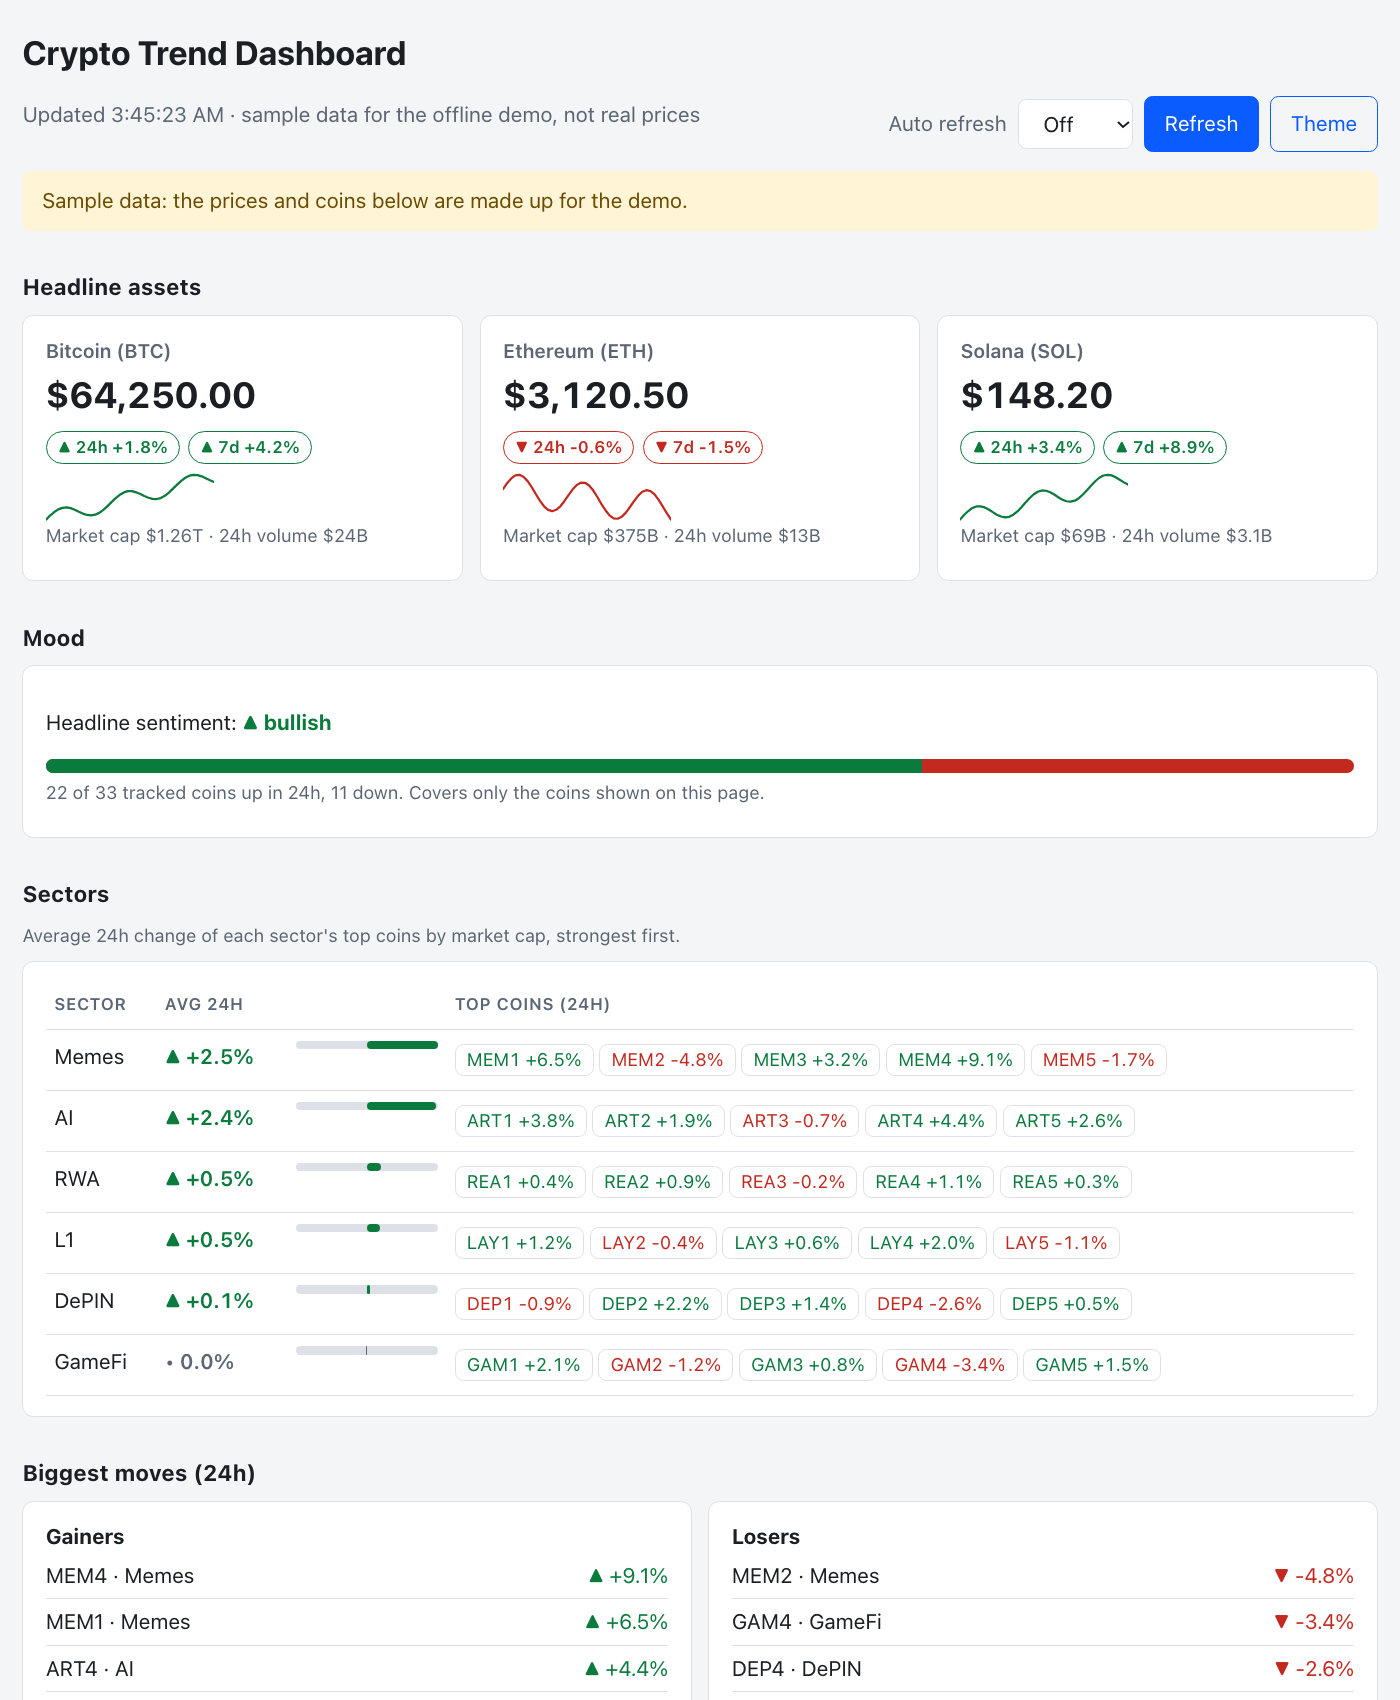
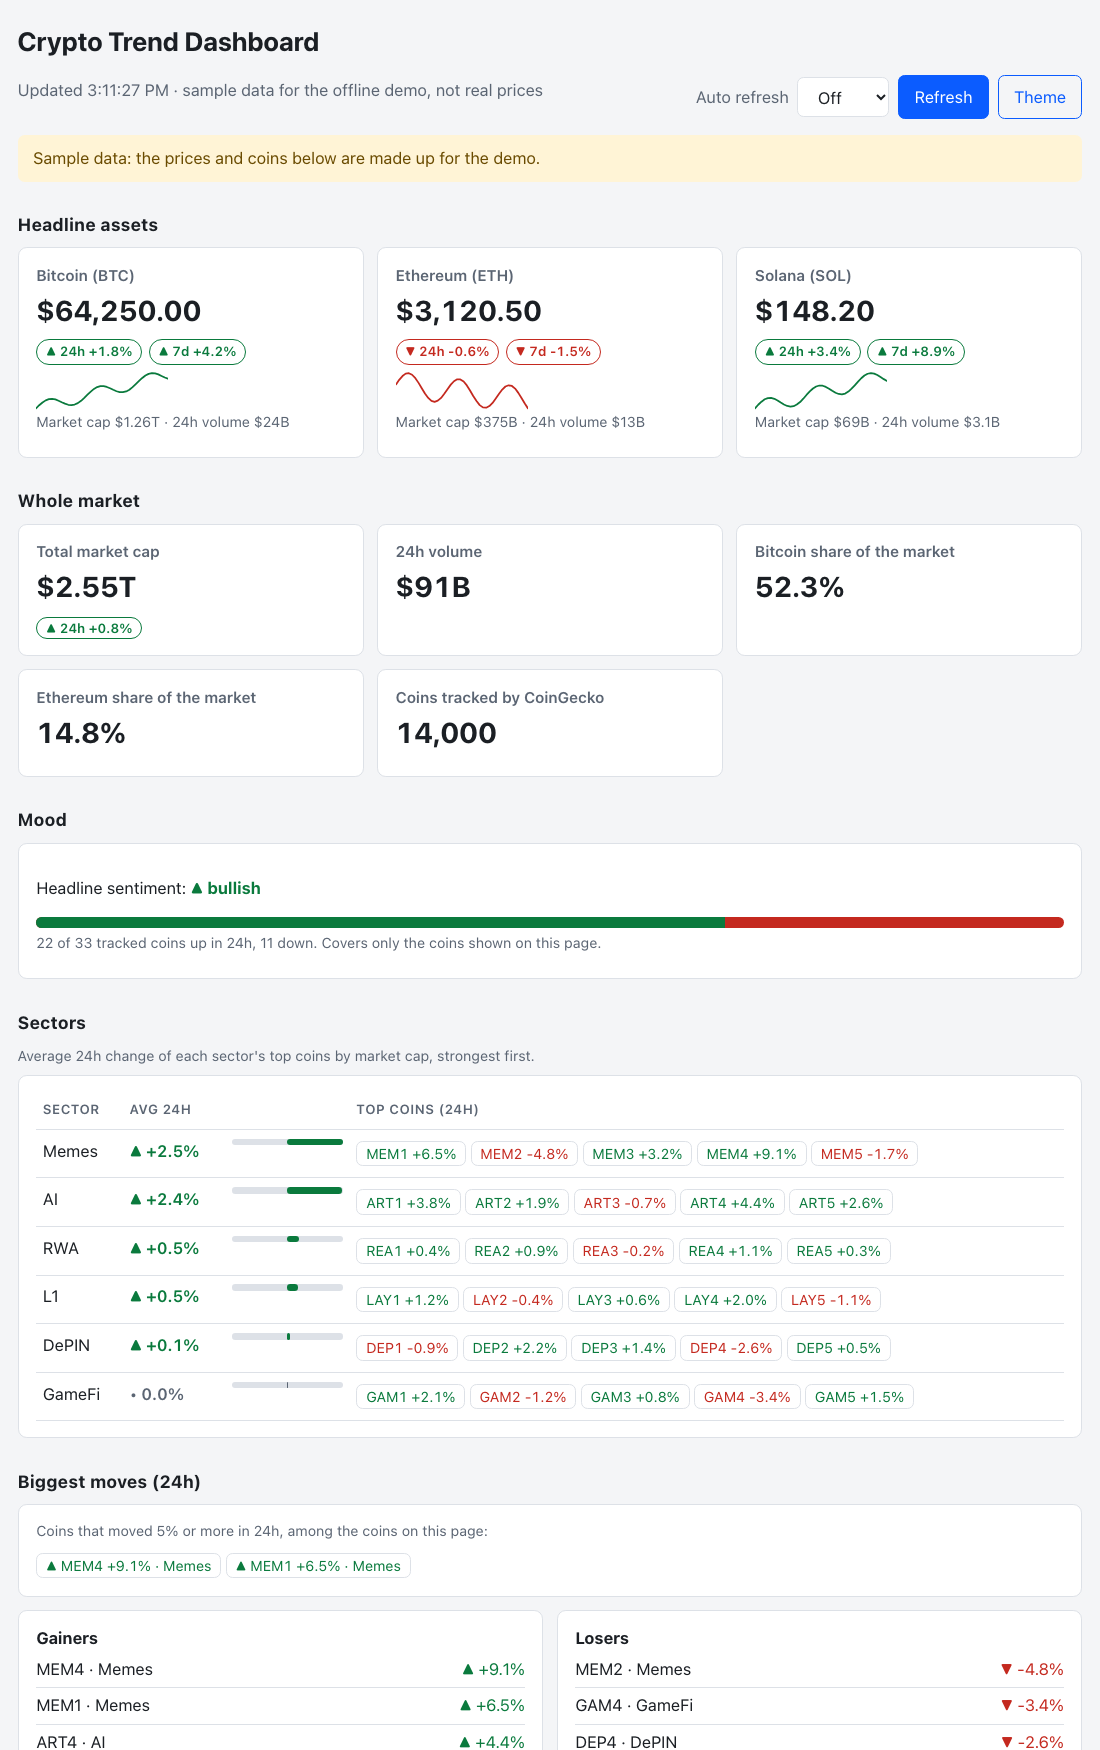
Document the overview, alerts, static demo, refresher and webhook; refresh the screenshot

diff --git a/README.md b/README.md
@@ -9,12 +9,16 @@ The screenshot uses the built-in offline sample data (`MOCK_DATA=1`), so its pri
 ## What it does
 
 - **Headline assets:** USD price, 24h and 7d change, market cap, 24h volume and a 7-day sparkline for Bitcoin, Ethereum and Solana (or the coins you choose with `COINS`).
+- **Whole market:** total market cap and its 24h change, 24h volume, Bitcoin and Ethereum share of the market, and the number of coins CoinGecko tracks.
 - **Sentiment:** **bullish** when more than half of the headline assets rose in 24 hours, otherwise **bearish** (ties are bearish). It describes recent movement; it is not a forecast.
 - **Breadth:** how many of the tracked coins (headline plus sector lists, each counted once) rose in 24 hours. It covers only the coins on the page, not the whole market.
 - **Sectors:** the top five coins by market cap in each CoinGecko category (GameFi, RWA, Memes, DePIN, AI, Layer 1, or your own list), with each sector's average 24h change, ranked strongest first.
-- **Biggest moves:** the top gainers and losers among all tracked coins.
+- **Biggest moves:** the top gainers and losers among all tracked coins, plus a **big-moves** list of every coin that moved `ALERT_THRESHOLD` percent (default 5) or more in either direction. Big moves are also added to the update text.
+- **Trending:** the coins CoinGecko lists as trending right now. This is search attention, not a recommendation.
 - **History:** every real refresh can be saved to a local SQLite file (at most one snapshot every five minutes) and charted as price change over the last 24 hours. Sample data is never saved.
-- **Sharing:** copy the update as plain text or Markdown, or download a CSV.
+- **Sharing:** copy the update as plain text or Markdown, download a CSV, or post the update to a Slack or Discord webhook from the command line.
+- **Background refresh:** with `REFRESH_INTERVAL` set, a background thread keeps the cache warm and saves history snapshots while nobody has the page open.
+- **One request per key:** when several visitors ask at the same moment, one request goes to CoinGecko and the rest reuse its answer.
 - **Resilience:** responses are cached (120 seconds by default), stale data is served when CoinGecko fails, a rate-limit response pauses further requests instead of hammering the API, and a sector that fails stays empty rather than being filled with unrelated coins.
 - **Page:** light and dark themes, optional auto-refresh, no external scripts, fonts or trackers.
 
@@ -25,7 +29,7 @@ An earlier local version mixed CoinGecko and CoinMarketCap data and included a s
 - Python 3.11+ (CI runs 3.11 and 3.12)
 - Internet access for live CoinGecko data
 
-A cold refresh makes one request for the headline coins and one for each sector (seven by default). CoinGecko's free API is rate limited and sometimes answers HTTP 429 for one or two sectors; those rows then show as unavailable and the page says why. The cache and the rate-limit pause reduce repeated calls, and a free CoinGecko demo key (`COINGECKO_API_KEY`) raises the limit.
+A cold refresh makes one request for the headline coins, one for each sector, one for the whole-market figures and one for trending (nine by default; `OVERVIEW=0` drops the last two). CoinGecko's free API is rate limited and sometimes answers HTTP 429 for one or two sectors; those rows then show as unavailable and the page says why. The cache and the rate-limit pause reduce repeated calls, and a free CoinGecko demo key (`COINGECKO_API_KEY`) raises the limit.
 
 ## Run locally
 
@@ -37,6 +41,14 @@ python app.py
 ```
 
 Open [http://localhost:5000](http://localhost:5000). To use another port: `PORT=5057 python app.py`. On macOS, AirPlay Receiver may already use port 5000.
+
+### Static demo (GitHub Pages)
+
+```bash
+python scripts/build_demo.py          # writes docs/index.html, docs/summary.json and docs/static/
+```
+
+This builds a copy of the page that needs no server, from the offline sample data only (every number is made up, and the page says so). The `docs/` folder in this repository already holds a built copy. To host it, open the repository's Settings, choose Pages, and select the `main` branch and the `/docs` folder. The demo has no history chart and no CSV download; those need the app.
 
 ### Offline demo
 
@@ -56,6 +68,14 @@ python cli.py --format csv
 python cli.py --mock               # sample data, no network
 ```
 
+```bash
+export DIGEST_WEBHOOK_URL=https://hooks.slack.com/services/...    # keeps the URL out of your shell history
+python cli.py --webhook "$DIGEST_WEBHOOK_URL"                       # Slack (plain text)
+python cli.py --webhook "$DIGEST_WEBHOOK_URL" --webhook-format discord
+```
+
+The webhook URL is a secret: it is never printed, errors never contain it, redirects are not followed, and only `https` URLs are accepted (plain `http` only for `localhost`). Run it from cron for a daily digest.
+
 The exit status is 0 on success, 1 if no data could be fetched and 2 for a bad configuration.
 
 ## HTTP endpoints
@@ -63,7 +83,7 @@ The exit status is 0 on success, 1 if no data could be fetched and 2 for a bad c
 | Route | Response |
 | --- | --- |
 | `GET /` | The dashboard page. |
-| `GET /api/summary` | JSON with `headline` (price, 1h/24h/7d change, market cap, volume, sparkline), `prices` (the same data keyed by CoinGecko id), `sentiment`, `breadth`, `sectors` (tickers), `sector_details`, `sector_stats`, `movers`, `post`, `post_markdown`, `errors`, `stale`, `mock` and `generated_at`. Partial data is returned when available; the status is 502 only when nothing could be fetched. |
+| `GET /api/summary` | JSON with `headline` (price, 1h/24h/7d change, market cap, volume, sparkline), `overview` (whole-market figures), `trending`, `alerts` (the threshold and the coins above it), `prices` (the same data keyed by CoinGecko id), `sentiment`, `breadth`, `sectors` (tickers), `sector_details`, `sector_stats`, `movers`, `post`, `post_markdown`, `errors`, `stale`, `mock` and `generated_at`. Partial data is returned when available; the status is 502 only when nothing could be fetched. |
 | `GET /api/post?format=text` or `markdown` | The update as `text/plain` or `text/markdown`. Any other format gives 400. |
 | `GET /api/summary.csv` | The headline coins and every sector coin as a CSV download. Names that start with `=`, `+`, `-` or `@` are prefixed so a spreadsheet does not run them as formulas. |
 | `GET /api/history?hours=24` | Saved snapshots from the last 1 to 720 hours, or `{"enabled": false}` when history is off. |
@@ -81,6 +101,10 @@ The exit status is 0 on success, 1 if no data could be fetched and 2 for a bad c
 | `FETCH_WORKERS` | `2` | Sector requests in flight at once (1 to 6). |
 | `COINGECKO_API_KEY` | unset | A CoinGecko demo key, sent in a request header and never in a URL. |
 | `COINGECKO_BASE_URL` | public API | Another API base URL. |
+| `OVERVIEW` | `1` | Set to `0` to skip the whole-market and trending requests (two fewer CoinGecko calls per refresh). |
+| `ALERT_THRESHOLD` | `5` | Percent move that counts as a big move (0.5 to 100). |
+| `REFRESH_INTERVAL` | `0` (off) | Seconds between background refreshes; at least 60 and never shorter than `CACHE_TTL`. Ignored for sample data. With several server workers each one refreshes on its own. |
+| `DIGEST_WEBHOOK_URL` | unset | Slack or Discord webhook used by `cli.py` when `--webhook` is not given. |
 | `HISTORY` | `1` | Set to `0` to switch off the local history. |
 | `HISTORY_DB` | `data/history.sqlite` | Where snapshots are stored. |
 | `HISTORY_MIN_INTERVAL` | `300` | Minimum seconds between snapshots (30 or more). |
@@ -104,17 +128,19 @@ COINS=bitcoin,ethereum,dogecoin CACHE_TTL=300 PORT=5057 python app.py
 python -m pytest -q
 ```
 
-The 54 tests cover row normalisation, sentiment, breadth, sector statistics and movers, the text, Markdown and CSV output (including spreadsheet-formula safety), cache and stale-data behaviour, the rate-limit pause, request headers, configuration validation, the history store (throttling, pruning, damaged rows), every HTTP route, the security headers, the command line, and a check that the page script has valid syntax and never builds HTML from API data. CoinGecko calls are mocked, so the suite needs no key and no network.
+The 110 tests cover row normalisation, sentiment, breadth, sector statistics and movers, the text, Markdown and CSV output (including spreadsheet-formula safety), cache and stale-data behaviour, the rate-limit pause, request headers, configuration validation, the history store (throttling, pruning, damaged rows), every HTTP route, the security headers, the command line, the background refresher, the webhook digest (against a local test server), the static demo build, the new overview, trending and alert logic, and a check that the page script has valid syntax and never builds HTML from API data. CoinGecko calls are mocked, so the suite needs no key and no network.
 
 GitHub Actions runs a lint step (syntax errors, undefined names, unused imports) and the tests on Python 3.11 and 3.12 for pushes to `main`, pull requests and manual runs.
 
 ## Project structure
 
 ```text
-app.py                  Flask routes, security headers
+app.py                  Flask routes, security headers, background refresher wiring
 market.py               CoinGecko access, cache, rate-limit pause, sectors, statistics, text/Markdown/CSV
 history.py              Local SQLite history of snapshots
-cli.py                  Command-line output
+cli.py                  Command-line output and the Slack/Discord digest
+refresher.py            Background refresh thread
+scripts/build_demo.py   Builds the static sample-data demo into docs/
 templates/index.html    Page structure
 static/style.css        Styles (light and dark)
 static/app.js           Rendering, sparklines, history chart, copy and auto-refresh
@@ -124,6 +150,8 @@ tests/                  Unit and endpoint tests
 
 ## Limitations
 
+- **Rate limits are the main practical limit.** The free CoinGecko API allows only a modest number of requests per minute. Nine requests on a cold refresh is enough to hit it when you reload repeatedly: affected panels show as unavailable, the page says why, and further requests pause until CoinGecko allows them again. `COINGECKO_API_KEY`, a longer `CACHE_TTL`, or `OVERVIEW=0` all help.
+- **The webhook digest has only been tested against a local test server,** not against real Slack or Discord, whose payload rules may change. The static demo has been checked in a browser served by a plain file server, but I have not deployed it to GitHub Pages.
 - **Verified against the live API:** the headline and sector requests and the response fields used here were checked against CoinGecko's public API once. The demo-key header (`COINGECKO_API_KEY`) and `COINGECKO_BASE_URL` are covered by tests but I have not tried them with a real key.
 - CoinGecko category membership changes, and its public API can be slow or rate limited. An empty sector means its request did not produce data; it does not mean the sector has no assets.
 - The sentiment rule only says whether most headline assets rose over 24 hours. Breadth and sector averages cover only the coins shown, are unweighted, and say nothing about the rest of the market.

diff --git a/CHANGELOG.md b/CHANGELOG.md
@@ -1,0 +1,15 @@
+# Changelog
+
+## Unreleased
+
+- Whole-market overview (total market cap and its 24h change, 24h volume, Bitcoin and Ethereum share, coin count) and a trending list, from CoinGecko's `/global` and `/search/trending`. They never make the summary fail; `OVERVIEW=0` turns them off.
+- Big-move alerts: coins that moved `ALERT_THRESHOLD` percent or more are listed on the page and in the update text.
+- One upstream request per key at a time: simultaneous visitors share one CoinGecko call.
+- Static sample-data demo (`scripts/build_demo.py`, built copy in `docs/`) that runs without a server.
+- Background refresher (`REFRESH_INTERVAL`) that keeps the cache warm and saves history while the page is closed; status shown at `/healthz`.
+- `cli.py --webhook` / `DIGEST_WEBHOOK_URL`: post the update to a Slack or Discord incoming webhook. The URL is never printed.
+- Repeated error messages are shown once.
+
+## 2.0
+
+- Richer headline data with 7-day sparklines, sector averages, breadth, biggest movers, local history, text/Markdown/CSV export, light and dark themes, a strict Content-Security-Policy, rate-limit backoff, command-line output and configurable coins and sectors.
